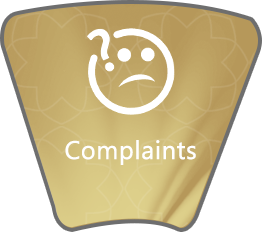
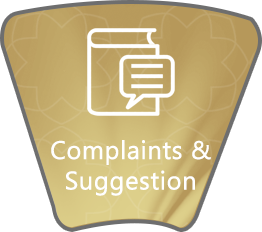
My Changes

Changed region(s): [[0.3053, 0.1207, 0.6718, 0.5129], [0.1832, 0.6034, 0.8244, 0.7241], [0.2443, 0.7241, 0.7634, 0.8448]]

diff --git a/templates/ar/CompAndSugg.html b/templates/ar/CompAndSugg.html
@@ -1,8 +1,27 @@
 <head>
     <meta charset="utf-8">
 </head>
-<ion-view dir="rtl" view-title="شكاوي">
-    <ion-content class="iFrameion-content">
-        <iframe class="webPage" style="padding-top:5px;"src="http://sdg.ae/2016/ded/ar/complaints.html"></iframe>
-    </ion-content>
-</ion-view>
+<ion-view dir="rtl" view-title="مقترحات وشكاوي">
+    <ion-content class="content">
+        <div class="Wrapper">
+            <div class="Page-Inner-Padding-Top"></div>
+            <div class="VerticalListBlock2">
+                <ul>
+                    <li class="animated fadeInRightBig">
+                        <div class="icon" ui-sref="Suggestion">
+                            <img src="img/icon/suggest.png" />
+                        </div>
+                        <h2>المقترحات</h2>
+                    </li>
+                    <li class="animated01 fadeInRightBig">
+                        <div class="icon" ui-sref="complains">
+                            <img src="img/icon/complaint.png" />
+                        </div>
+                        <h2>الشكاوي</h2>
+                    </li>
+                </ul>
+            </div>
+        </div>
+        
+
+        </ion-view>

diff --git a/templates/en/CompAndSugg.html b/templates/en/CompAndSugg.html
@@ -1,8 +1,28 @@
 <head>
     <meta charset="utf-8">
 </head>
-<ion-view dir="rtl" view-title="شكاوي">
-    <ion-content class="iFrameion-content">
-        <iframe class="webPage" style="padding-top:5px;"src="http://sdg.ae/2016/ded/ar/complaints.html"></iframe>
-    </ion-content>
+<ion-view view-title="Complaints And Suggestions">
+    <ion-content class="content">
+        <div class="Wrapper">
+            <div class="Page-Inner-Padding-Top"></div>
+            <div class="VerticalListBlock2">
+                <ul>
+                    <li class="animated fadeInRightBig">
+                        <div class="icon" ui-sref="Suggestion">
+                            <img src="img/icon/suggest.png" />
+                        </div>
+                        <h2>Suggestions</h2>
+                    </li>
+                    <li class="animated01 fadeInRightBig">
+                        <div class="icon" ui-sref="complains">
+                            <img src="img/icon/complaint.png" />
+                        </div>
+                        <h2>Complaints</h2>
+                    </li>
+                </ul>
+            </div>
+        </div>
+
+
+
 </ion-view>

diff --git a/templates/en/QueryingLicense.html b/templates/en/QueryingLicense.html
@@ -1,25 +1,8 @@
 <head>
     <meta charset="utf-8">
-    <style>
-        ion-content div.scroll {
-            height: 90% !important;
-            overflow:auto;
-			-webkit-overflow-scrolling:touch
-        }
-
-        .webPage {
-            width: 100%;
-            height: 100%;
-            padding: 1rem;
-        }
-
-        .pane, .view {
-            background-color: rgba(255,255,255,0);
-        }
-    </style>
 </head>
-<ion-view view-title="License Enquiry">
-    <ion-content class='padding has-subheader'>
+<ion-view view-title="License Enquiry" class="IFrame-Wrapper-Andro">
+    <ion-content class="iFrameion-content">
         <iframe class="webPage" src="http://sdg.ae/2016/ded/en/enquiry.html"></iframe>
     </ion-content>
 </ion-view>

diff --git a/templates/ar/sideMenu.html b/templates/ar/sideMenu.html
@@ -11,8 +11,6 @@
                                 <li ng-click="closeMenu()"><a ui-sref="knowUs">عن الدائرة</a></li>
                                 <li ng-click="closeMenu()"><a ui-sref="departmentObjectives">أهداف الدائرة</a></li>
                                 <li ng-click="closeMenu()"><a ui-sref="contact">تواصل معنا</a></li>
-                                <li ng-click="closeMenu()"><a ui-sref="complains">الشكاوي</a></li>
-                                <li ng-click="closeMenu()"><a ui-sref="Suggestion">المقترحات</a></li>
                                 <li ng-click="closeMenu()"><a ui-sref="CompAndSugg">االشكاوي والمقترحات</a></li>
 
                             </ul>

diff --git a/templates/en/sideMenu.html b/templates/en/sideMenu.html
@@ -28,8 +28,6 @@
                                 <li ng-click="closeMenu()"><a ui-sref="knowUs">Our Profile</a></li>
                                 <li ng-click="closeMenu()"><a ui-sref="departmentObjectives">Objectives</a></li>
                                 <li ng-click="closeMenu()"><a ui-sref="contact"> Get in Touch</a></li>
-                                <li ng-click="closeMenu()"><a ui-sref="complains">Complaints</a></li>
-                                <li ng-click="closeMenu()"><a ui-sref="Suggestion">Suggestions</a></li>
                                 <li ng-click="closeMenu()"><a ui-sref="CompAndSugg">Complaints And Suggestions</a></li>
                             </ul>
                         </div>

diff --git a/templates/en/homePage.html b/templates/en/homePage.html
@@ -27,7 +27,7 @@
                 <div class='circle-container' id="C-container">
                     <img ui-sref="contact" class='deg0' src='img/home/en/contact.png'>
                     <img ui-sref="manual" class='deg45' src='img/home/en/guide.png'>
-                    <img ui-sref="complains" class='deg90' src='img/home/en/suggest.png'>
+                    <img ui-sref="CompAndSugg" class='deg90' src='img/home/en/suggest.png'>
                     <img ui-sref="about" class='deg135' src='img/home/en/about.png'>
                     <img ui-sref="mediaCenter" class='deg180' src='img/home/en/media.png'>
                     <img ui-sref="servicesGuide" class='deg225' src='img/home/en/ServicesGuide.png'>

diff --git a/templates/ar/homePage.html b/templates/ar/homePage.html
@@ -27,7 +27,7 @@
                 <div class='circle-container' id="C-container">
                     <img ui-sref="contact" class='deg0' src='img/home/contact.png'>
                     <img ui-sref="manual" class='deg45' src='img/home/guide.png'>
-                    <img ui-sref="complains" class='deg90' src='img/home/suggest.png'>
+                    <img ui-sref="CompAndSugg" class='deg90' src='img/home/suggest.png'>
                     <img ui-sref="about" class='deg135' src='img/home/about.png'>
                     <img ui-sref="mediaCenter" class='deg180' src='img/home/media.png'>
                     <img ui-sref="servicesGuide" class='deg225' src='img/home/serviceguideA.png'>

diff --git a/templates/ar/servicesGuide.html b/templates/ar/servicesGuide.html
@@ -11,7 +11,7 @@
                               <h2>إصدار رخصة</h2>
                         </li>
                         <li class="animated01 fadeInRightBig">
-                            <div class="icon" ui-sref="LicenseRenewal"><img src="img/ServicesGuide/Renew.png" /></div>
+                            <div class="icon" ui-sref="renewPermit"><img src="img/ServicesGuide/Renew.png" /></div>
                             <h2>تجديد رخصة</h2>
                         </li>
                         <li class="animated02 fadeInRightBig">

diff --git a/templates/en/OnlineServices.html b/templates/en/OnlineServices.html
@@ -17,7 +17,7 @@
                         </li>
                         <li class="animated01 fadeInRightBig">
                             <div class="icon" ui-sref="LicenseRenewal"><img src="img/icon/renew.png" /></div>
-                            <h2>Renew Sole Establishment License</h2>
+                            <h2>Renew License</h2>
                         </li>
                         <li class="animated02 fadeInRightBig">
                             <div class="icon" ui-sref="QueryingLicense"><img src="img/icon/request.png" /></div>

diff --git a/templates/en/ComplainsAndSuggestion.html b/templates/en/ComplainsAndSuggestion.html
@@ -1,8 +1,8 @@
-<head>
+<head>
     <meta charset="utf-8">
 </head>
-<ion-view view-title="Complaints">
-    <ion-content class="iFrameion-content" style="padding-top:5px;">
+<ion-view view-title="Complaints" class="IFrame-Wrapper-Andro">
+    <ion-content class="iFrameion-content">
         <iframe class="webPage" src="http://sdg.ae/2016/ded/en/complaints.html"></iframe>
     </ion-content>
 </ion-view>

diff --git a/templates/ar/LicenseRenewal.html b/templates/ar/LicenseRenewal.html
@@ -1,7 +1,7 @@
 <head>
     <meta charset="utf-8">
 </head>
-<ion-view dir="rtl" view-title="تجديد رخصة اقتصادية">
+<ion-view dir="rtl" view-title="تجديد رخصة اقتصادية" class="IFrame-Wrapper-Andro">
     <ion-content class="iFrameion-content">
         <iframe class="webPage" src="http://sdg.ae/2016/ded/ar/renew.html"></iframe>
     </ion-content>

diff --git a/templates/ar/ComplainsAndSuggestion.html b/templates/ar/ComplainsAndSuggestion.html
@@ -1,7 +1,7 @@
 <head>
     <meta charset="utf-8">
 </head>
-<ion-view dir="rtl" view-title="شكاوي">
+<ion-view dir="rtl" view-title="شكاوي" class="IFrame-Wrapper-Andro">
     <ion-content class="iFrameion-content">
         <iframe class="webPage" style="padding-top:5px;"src="http://sdg.ae/2016/ded/ar/complaints.html"></iframe>
     </ion-content>
